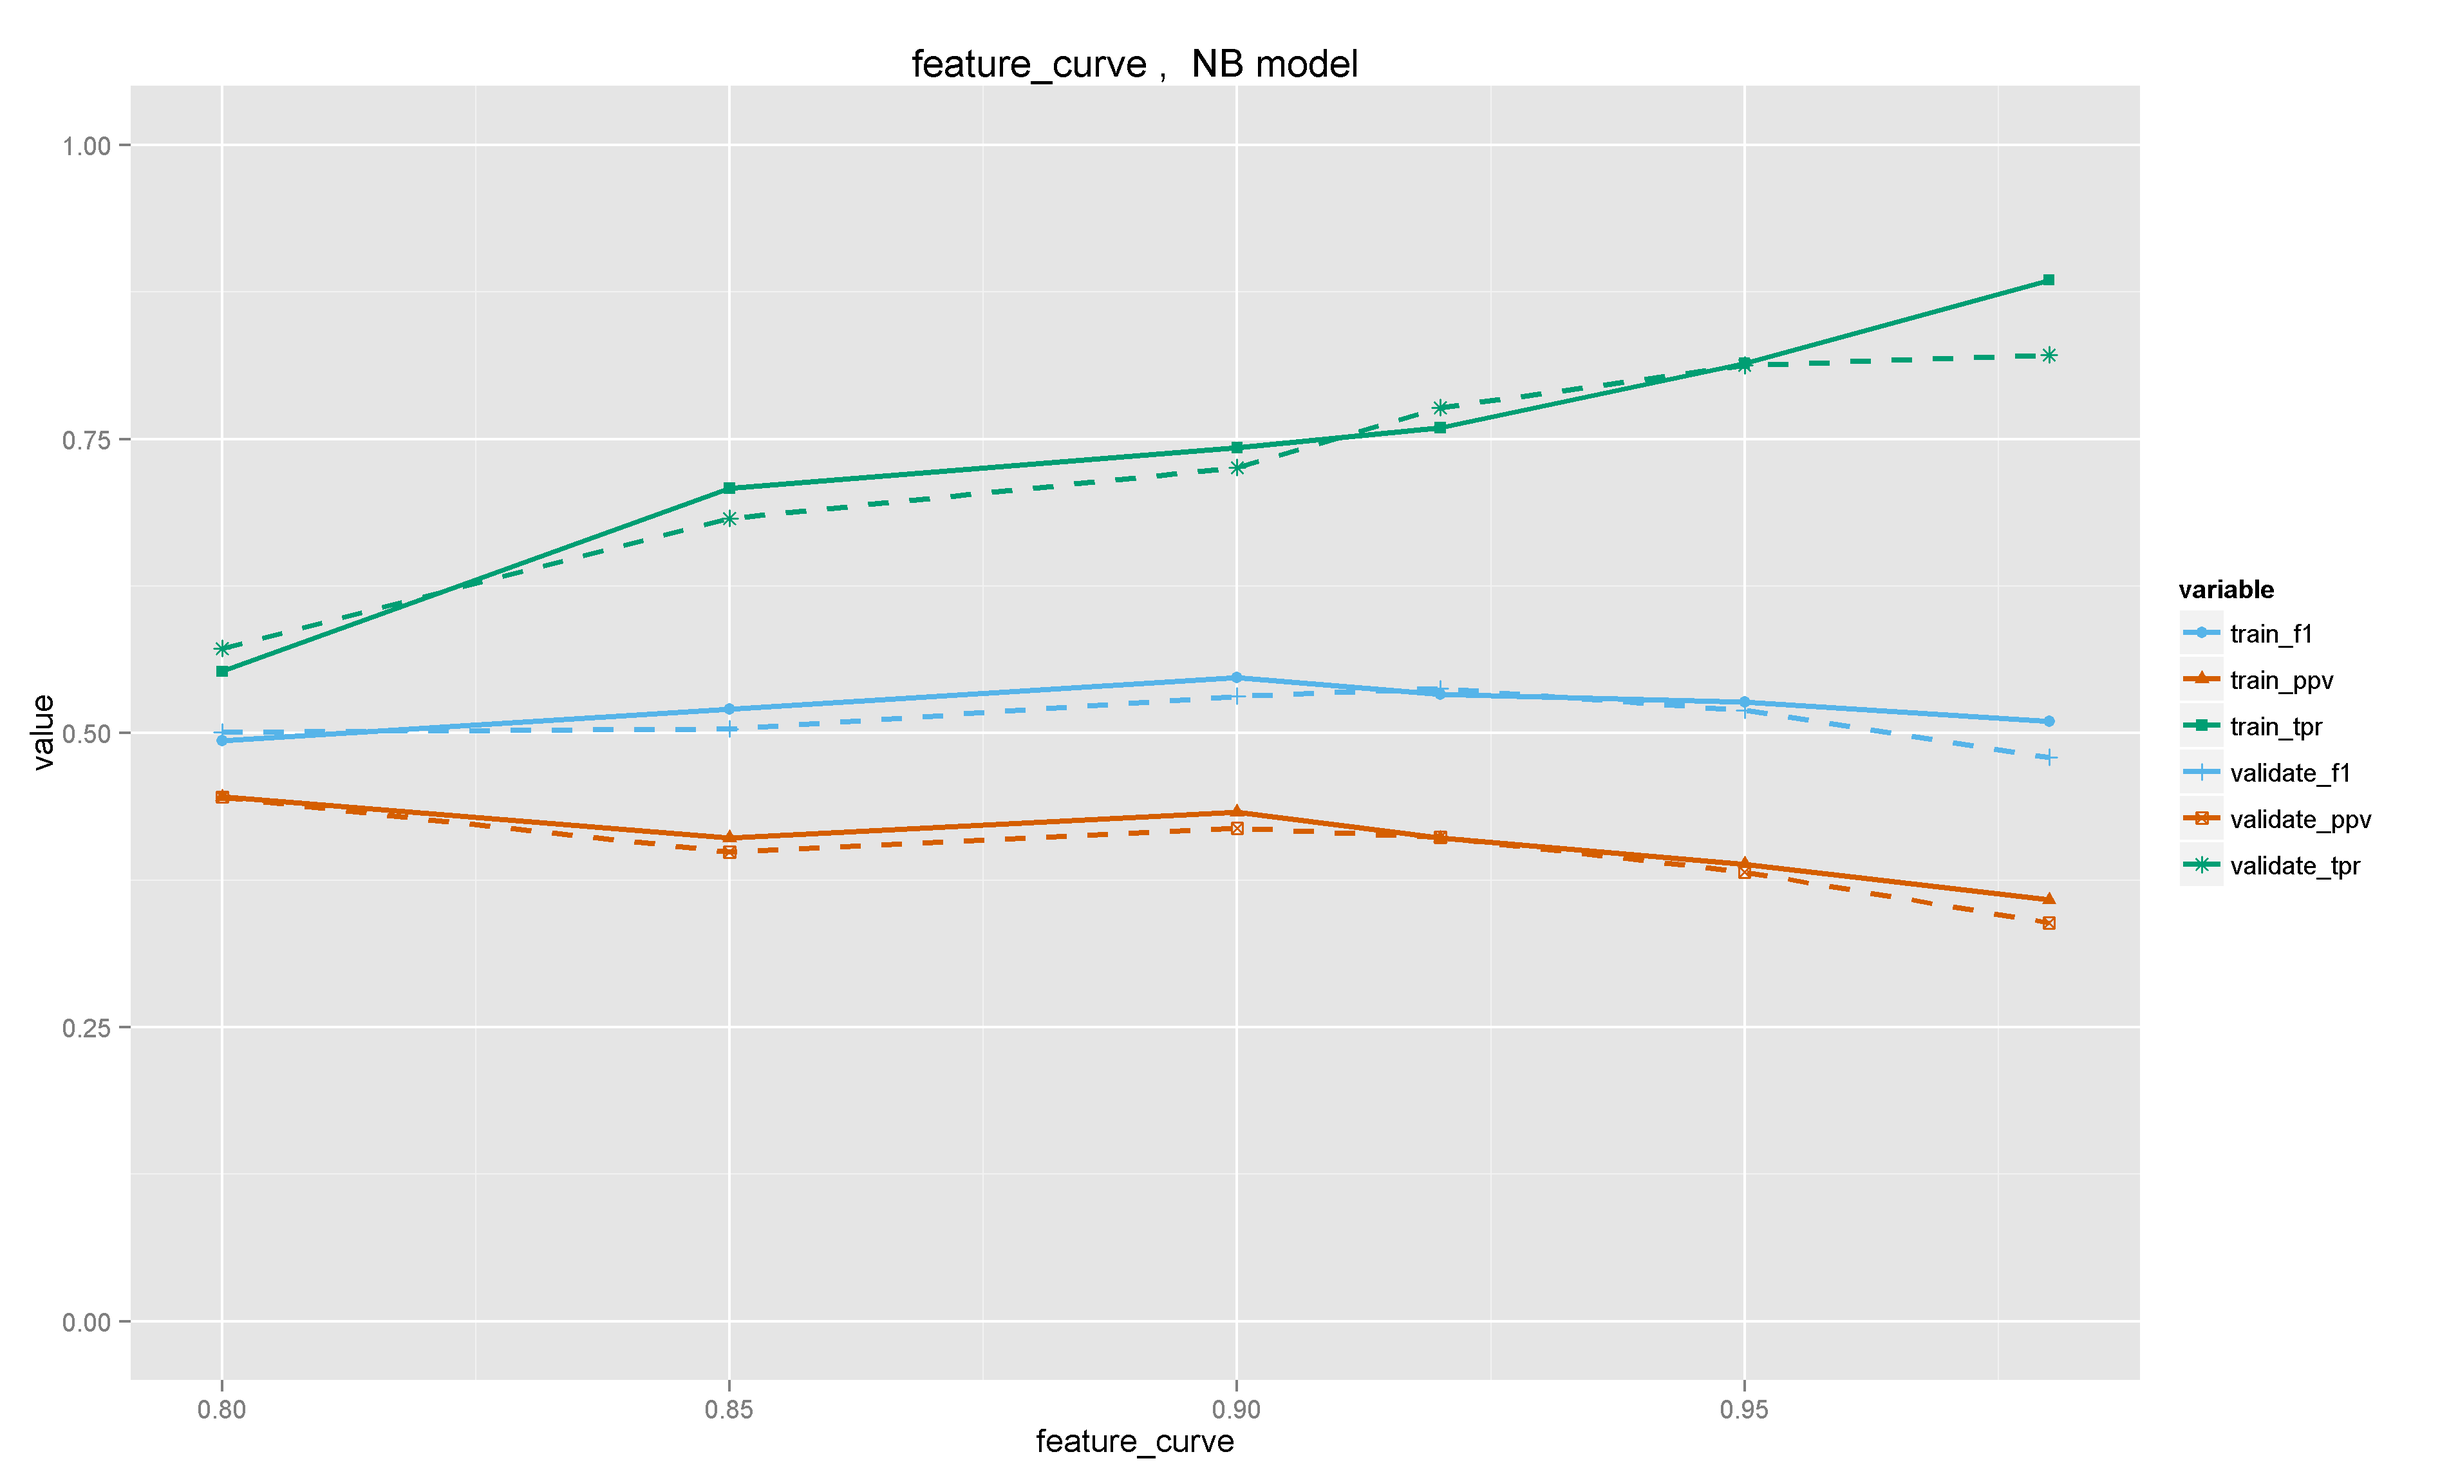
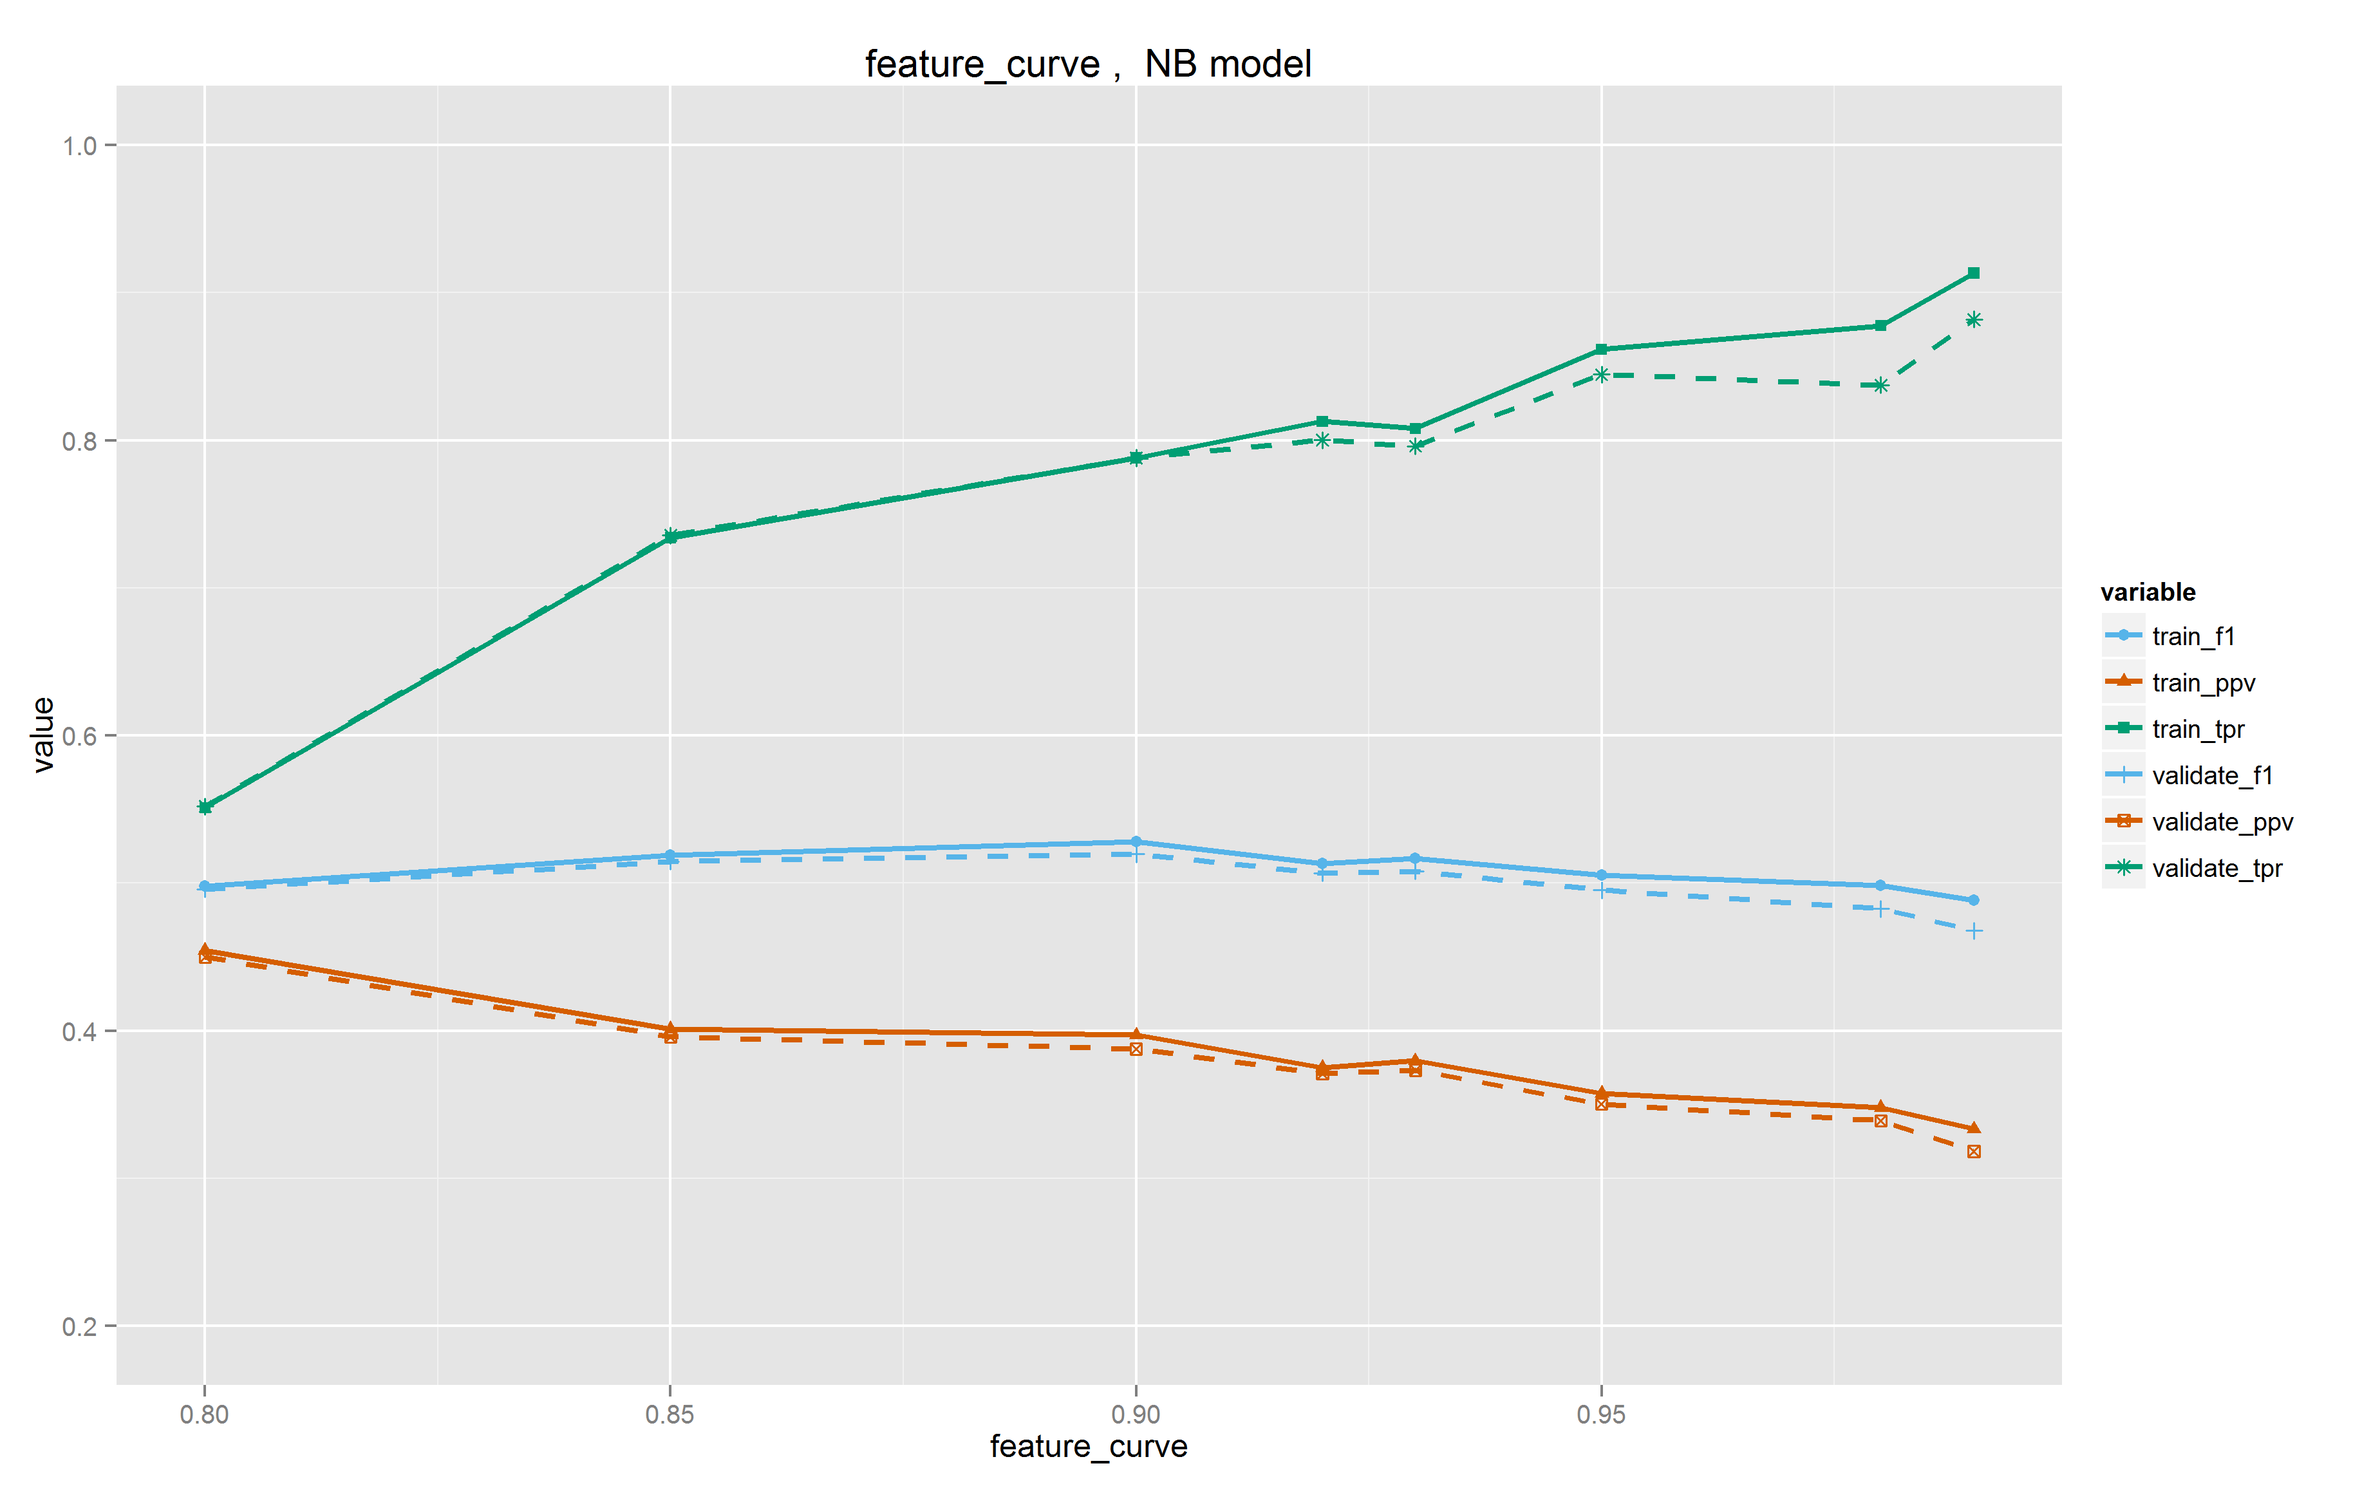
change folders

diff --git a/cookbook.md b/cookbook.md
@@ -65,14 +65,15 @@ kNN model has one paramenter (k) to tune, on top of number of features and the s
 Normal choices of k are odd number range from 1 to 10, here we plotted for 1, 3, 5, 7, 9 and the result shows that the f1 score does not change much with k. There are bigger gaps between training data and testing data when k is small but the absolute results are better. Considering, the speed of training and testing is much faster when k is small. we chose k = 1 in this case. One conserning is that it was suggest using k = sqrt(n) as the first tempt for k but in our case k will have to be around 100, which I guess will take forever. We can try it when we can use the super computer. 
 ![kNN k-curve with sparse level = 0.95](/img/k_curve_kNN_sl095.png)
 
-This plot is the feature curve with k = 5. 
-![kNN feature curve with k = 5](/img/feature_curve_NB_k5.png)
+This plot is the feature curve with k = 3. 
+![kNN feature curve with k = 3](/img/feature_curve_NB_k3.png)
 
 ![kNN learning curve with sparselevel = 0.9 and k = 3](/img/learning_curve_NB_sl09.png)
 
 *kNN takes a fairly long time to make predictions. 
 
 3. SVM model
-Tuning SVM is more time consuming. The changable variables are cost, gamma, sparse level and size of the trainning data set.
+Here we choose the c-classification SVM model with 
+Parameters for RBL kenelare cost, gamma, sparse level and size of the trainning data set.
 
 

diff --git a/README.md b/README.md
@@ -1,8 +1,10 @@
-Text miming 
+Text miming for publications
 ========
 
-Text-mining R script for neuroscience papers. 
+This projects include several text-mining R functions and a script for neuroscience papers. 
 
-The data are a xlsx file received from Gillian.
+The data are a xlsx file. 
 
 Before running the scipt, it is required that the xlsx file has to be opened in Excel or similar program, keep only the needed columns (ID, Abstract, s1.included, s1.excluded, s2.included, s2.excluded, and convert/save the file as a txt file ( which should automatically change the file to a tab seprated file).
+
+In order to run the application, set up the parameter settings in pain.r and then source it. Current changable parameters are machine learning model (NB, kNN, SVM), related parameters for the model, features sparse level and ratio of data set to use.
